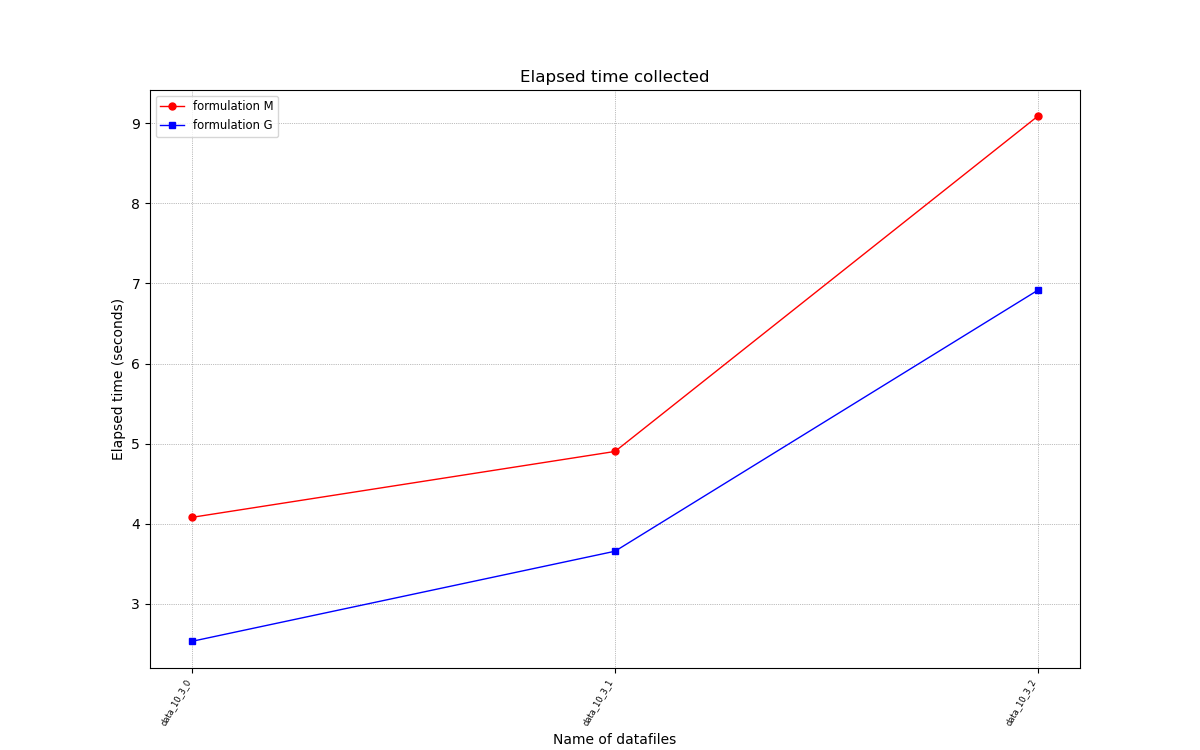
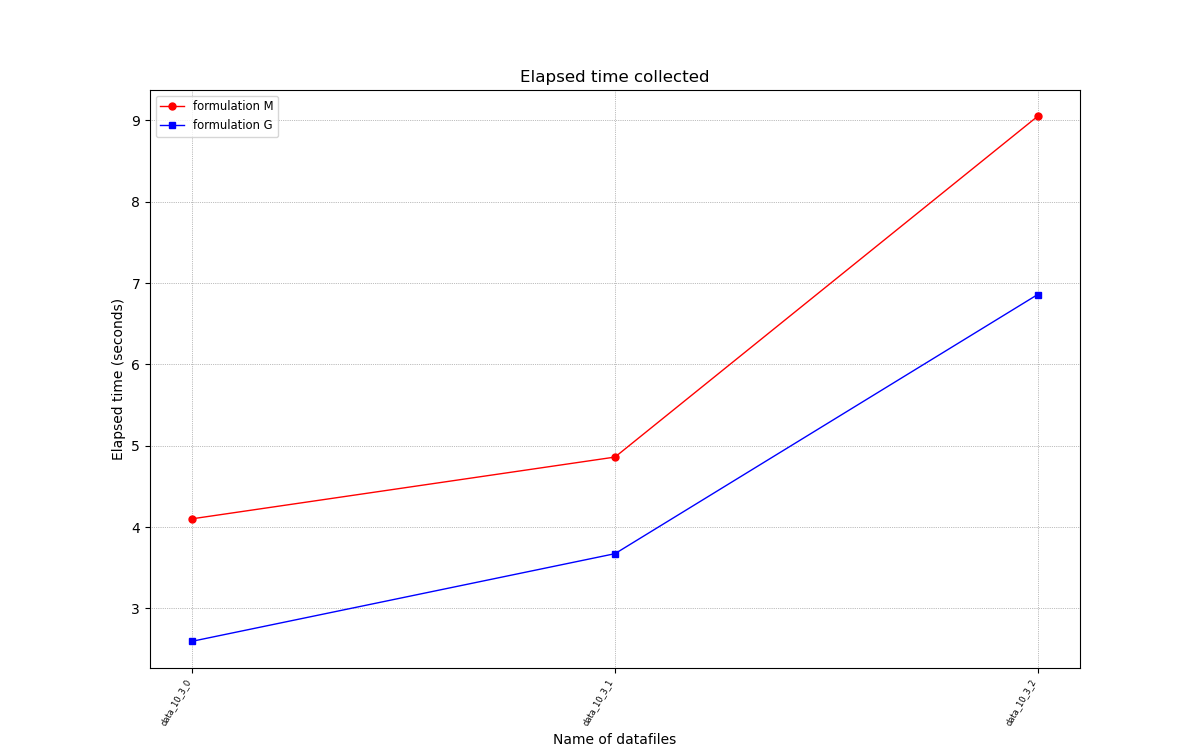
analyse of M/2M G/2G

diff --git a/scr/dev/resM.tex b/scr/dev/resM.tex
@@ -1,8 +1,8 @@
-\begin{tabular}{rrrrrrrr}
+\begin{tabular}{rrrrrrrrrr}
   \hline
-  \textbf{zOptCost} & \textbf{tElapsed} & \textbf{totalQuantityTransfered} & \textbf{totalTimeTransfert} & \textbf{zOpt} & \textbf{nTransfertDone} & \textbf{nTruckAssigned} & \textbf{pTransfertDone} \\
-  \texttt{Int64} & \texttt{Float64} & \texttt{Int64} & \texttt{Int64} & \texttt{Int64} & \texttt{Int64} & \texttt{Int64} & \texttt{Float64} \\\hline
-  160 & 4.078 & 789 & 124 & 3163 & 21 & 9 & 67.74 \\
-  156 & 4.901 & 1030 & 84 & 8454 & 28 & 7 & 46.67 \\
-  234 & 9.09 & 949 & 102 & 6659 & 28 & 8 & 58.33 \\\hline
+  \textbf{fname} & \textbf{tElapsed} & \textbf{zOpt} & \textbf{zOptCost} & \textbf{zOptPenalty} & \textbf{totalTimeTransfert} & \textbf{totalQuantityTransfered} & \textbf{nTruckAssigned} & \textbf{nTransfertDone} & \textbf{pTransfertDone} \\
+  \texttt{String} & \texttt{Float64} & \texttt{Int64} & \texttt{Int64} & \texttt{Int64} & \texttt{Int64} & \texttt{Int64} & \texttt{Int64} & \texttt{Int64} & \texttt{Float64} \\\hline
+  data\_10\_3\_0 & 4.102 & 3163 & 160 & 3003 & 124 & 789 & 9 & 21 & 67.74 \\
+  data\_10\_3\_1 & 4.861 & 8454 & 156 & 8298 & 84 & 1030 & 7 & 28 & 46.67 \\
+  data\_10\_3\_2 & 9.052 & 6659 & 234 & 6425 & 102 & 949 & 8 & 28 & 58.33 \\\hline
 \end{tabular}

diff --git a/scr/dev/resG.tex b/scr/dev/resG.tex
@@ -1,8 +1,8 @@
-\begin{tabular}{rrrrrrrr}
+\begin{tabular}{rrrrrrrrrr}
   \hline
-  \textbf{zOptCost} & \textbf{tElapsed} & \textbf{totalQuantityTransfered} & \textbf{totalTimeTransfert} & \textbf{zOpt} & \textbf{nTransfertDone} & \textbf{nTruckAssigned} & \textbf{pTransfertDone} \\
-  \texttt{Int64} & \texttt{Float64} & \texttt{Int64} & \texttt{Int64} & \texttt{Int64} & \texttt{Int64} & \texttt{Int64} & \texttt{Float64} \\\hline
-  38 & 2.529 & 781 & 32 & 3105 & 20 & 9 & 64.52 \\
-  112 & 3.654 & 1030 & 68 & 8410 & 28 & 7 & 46.67 \\
-  120 & 6.915 & 949 & 60 & 6545 & 28 & 8 & 58.33 \\\hline
+  \textbf{fname} & \textbf{tElapsed} & \textbf{zOpt} & \textbf{zOptCost} & \textbf{zOptPenalty} & \textbf{totalTimeTransfert} & \textbf{totalQuantityTransfered} & \textbf{nTruckAssigned} & \textbf{nTransfertDone} & \textbf{pTransfertDone} \\
+  \texttt{String} & \texttt{Float64} & \texttt{Int64} & \texttt{Int64} & \texttt{Int64} & \texttt{Int64} & \texttt{Int64} & \texttt{Int64} & \texttt{Int64} & \texttt{Float64} \\\hline
+  data\_10\_3\_0 & 2.596 & 3105 & 38 & 3067 & 32 & 781 & 9 & 20 & 64.52 \\
+  data\_10\_3\_1 & 3.673 & 8410 & 112 & 8298 & 68 & 1030 & 7 & 28 & 46.67 \\
+  data\_10\_3\_2 & 6.86 & 6545 & 120 & 6425 & 60 & 949 & 8 & 28 & 58.33 \\\hline
 \end{tabular}

diff --git a/scr/dev/res2M.tex b/scr/dev/res2M.tex
@@ -1,0 +1,8 @@
+\begin{tabular}{rrrrrrr}
+  \hline
+  \textbf{fname} & \textbf{tElapsed} & \textbf{z1TransfertTime} & \textbf{z2QuantityTransfered} & \textbf{nTruckAssigned} & \textbf{nTransfertDone} & \textbf{pTransfertDone} \\
+  \texttt{String} & \texttt{Float64} & \texttt{Int64} & \texttt{Int64} & \texttt{Int64} & \texttt{Int64} & \texttt{Float64} \\\hline
+  data\_10\_3\_0 & 12.609 & 120 & 789 & 9 & 21 & 67.74 \\
+  data\_10\_3\_1 & 7.237 & 84 & 1030 & 7 & 28 & 46.67 \\
+  data\_10\_3\_2 & 16.218 & 102 & 949 & 8 & 28 & 58.33 \\\hline
+\end{tabular}

diff --git a/scr/dev/res2G.tex b/scr/dev/res2G.tex
@@ -1,0 +1,8 @@
+\begin{tabular}{rrrrrrr}
+  \hline
+  \textbf{fname} & \textbf{tElapsed} & \textbf{z1TransfertTime} & \textbf{z2QuantityTransfered} & \textbf{nTruckAssigned} & \textbf{nTransfertDone} & \textbf{pTransfertDone} \\
+  \texttt{String} & \texttt{Float64} & \texttt{Int64} & \texttt{Int64} & \texttt{Int64} & \texttt{Int64} & \texttt{Float64} \\\hline
+  data\_10\_3\_0 & 5.541 & 29 & 781 & 9 & 20 & 64.52 \\
+  data\_10\_3\_1 & 7.229 & 68 & 1030 & 7 & 28 & 46.67 \\
+  data\_10\_3\_2 & 7.655 & 52 & 949 & 8 & 28 & 58.33 \\\hline
+\end{tabular}
